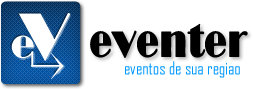
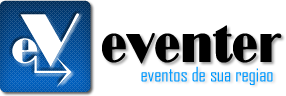
..

diff --git a/public/css/events_partial.css b/public/css/events_partial.css
@@ -222,24 +222,34 @@ div.evento_description_content
 div.evento_content div.btn_events
 {
 	clear: both;
-	margin-top: 20px;
-	
+	margin-top: 20px;	
 }
 
 div.evento_content div.evento_description button.evento_description_button_details
 {
 	background: transparent url("/img/evento_description_button_details.png") left center no-repeat;
-	width: 120px;
+	width: 140px;
 	border: 0;
 	cursor: pointer;
 	margin: 10px 2px 0 20px;
 }
+div.evento_content div.evento_description button.evento_description_button_details span
+{
+	padding-left: 5px; color: #00CCFF; font-size: 14px;
+}
+
 div.evento_content div.evento_description button.evento_description_button_promotions
 {
 	background: transparent url("/img/evento_description_button_promotions.png") left center no-repeat;	
-	z-index: 1000;
-	position: absolute;
-	left: 140px;
+	width: 140px;
+	border: 0;
+	cursor: pointer;
+	margin: 10px 2px 0 10px;
+}
+
+div.evento_content div.evento_description button.evento_description_button_promotions span
+{
+	padding-left: 16px; color: #00CCFF; font-size: 14px;
 }
 
 
@@ -256,8 +266,20 @@ div.evento_content div.evento_date
 div.evento_content div.evento_date span
 {
 	display: block;
-	margin: 50px 36px;
+	padding: 50px 36px;
 	font-size: 30px;
+	color: #999;
+background: #f4f4f4; /* Old browsers */
+/* IE9 SVG, needs conditional override of 'filter' to 'none' */
[1 lines of base64/hex data omitted]
+background: -moz-linear-gradient(top,  #f4f4f4 0%, #e5e5e5 100%); /* FF3.6+ */
+background: -webkit-gradient(linear, left top, left bottom, color-stop(0%,#f4f4f4), color-stop(100%,#e5e5e5)); /* Chrome,Safari4+ */
+background: -webkit-linear-gradient(top,  #f4f4f4 0%,#e5e5e5 100%); /* Chrome10+,Safari5.1+ */
+background: -o-linear-gradient(top,  #f4f4f4 0%,#e5e5e5 100%); /* Opera 11.10+ */
+background: -ms-linear-gradient(top,  #f4f4f4 0%,#e5e5e5 100%); /* IE10+ */
+background: linear-gradient(to bottom,  #f4f4f4 0%,#e5e5e5 100%); /* W3C */
+filter: progid:DXImageTransform.Microsoft.gradient( startColorstr='#f4f4f4', endColorstr='#e5e5e5',GradientType=0 ); /* IE6-8 */
+
 }
 
 div.evento_content div.evento_date a

diff --git a/public/img/eventer.htm b/public/img/eventer.htm
@@ -1,0 +1,12 @@
+<!DOCTYPE html PUBLIC "-//W3C//DTD XHTML 1.0 Transitional//EN"
+"http://www.w3.org/TR/xhtml1/DTD/xhtml1-transitional.dtd">
+<!-- saved from url=(0014)about:internet -->
+<html xmlns="http://www.w3.org/1999/xhtml">
+<head>
+<title>eventer</title>
+<meta http-equiv="Content-Type" content="text/html; charset=utf-8" />
+<!--Fireworks CS5 Dreamweaver CS5 target.  Created Wed Feb 27 15:37:22 GMT-0300 (Hora oficial do Brasil) 2013-->
+</head>
+<body bgcolor="#ffffff">
+<img name="eventer" src="eventer.png" width="286" height="96" border="0" id="eventer" alt="" /></body>
+</html>

diff --git a/public/css/parceiro_home.css b/public/css/parceiro_home.css
@@ -40,7 +40,7 @@ div.wrap div.wrapRight div.form_parc{
 }
 
 div.wrap div.wrapRight div.form_parc p{
-	padding: 20px 0 20px 0; font-size: 26px; color: #09F; background: url("/img/arrow_p_home.png") 190px center no-repeat;
+	padding: 20px 0 10px 0; font-size: 26px; color: #09F; background: url("/img/arrow_p_home.png") 190px 20px no-repeat;
 }
 
 /*

diff --git a/public/css/parceiro_evento.css b/public/css/parceiro_evento.css
@@ -163,8 +163,6 @@ div.evento_content div.evento_description div.evento_description_content
 div.evento_content div.evento_description div.evento_description_total
 {
 	background-color: #F9F9F9;
-	height: 210px;
-	overflow: auto;
 	margin: 30px 25px 10px 0;
 	padding: 25px;
 	width: 530px;

diff --git a/public/css/layout.css b/public/css/layout.css
@@ -15,7 +15,7 @@
 	div.header-extra div.eventer
 	{
 		float: left;
-		padding: 44px 60px;
+		padding: 38px 60px;
 		position: absolute;
 		z-index: 9999;
 	}
